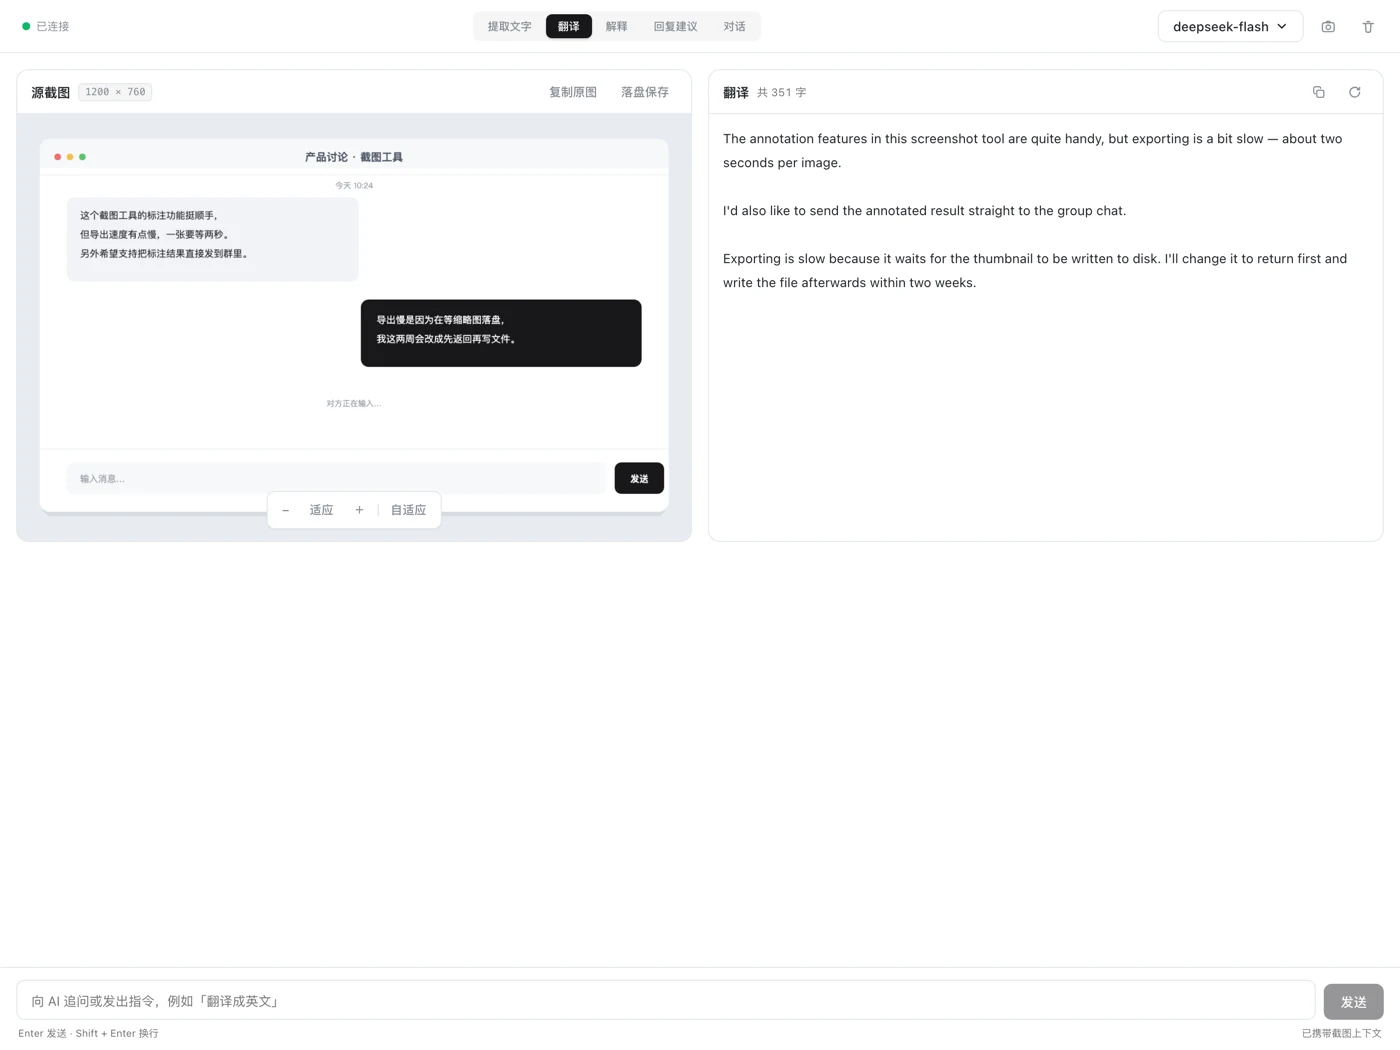
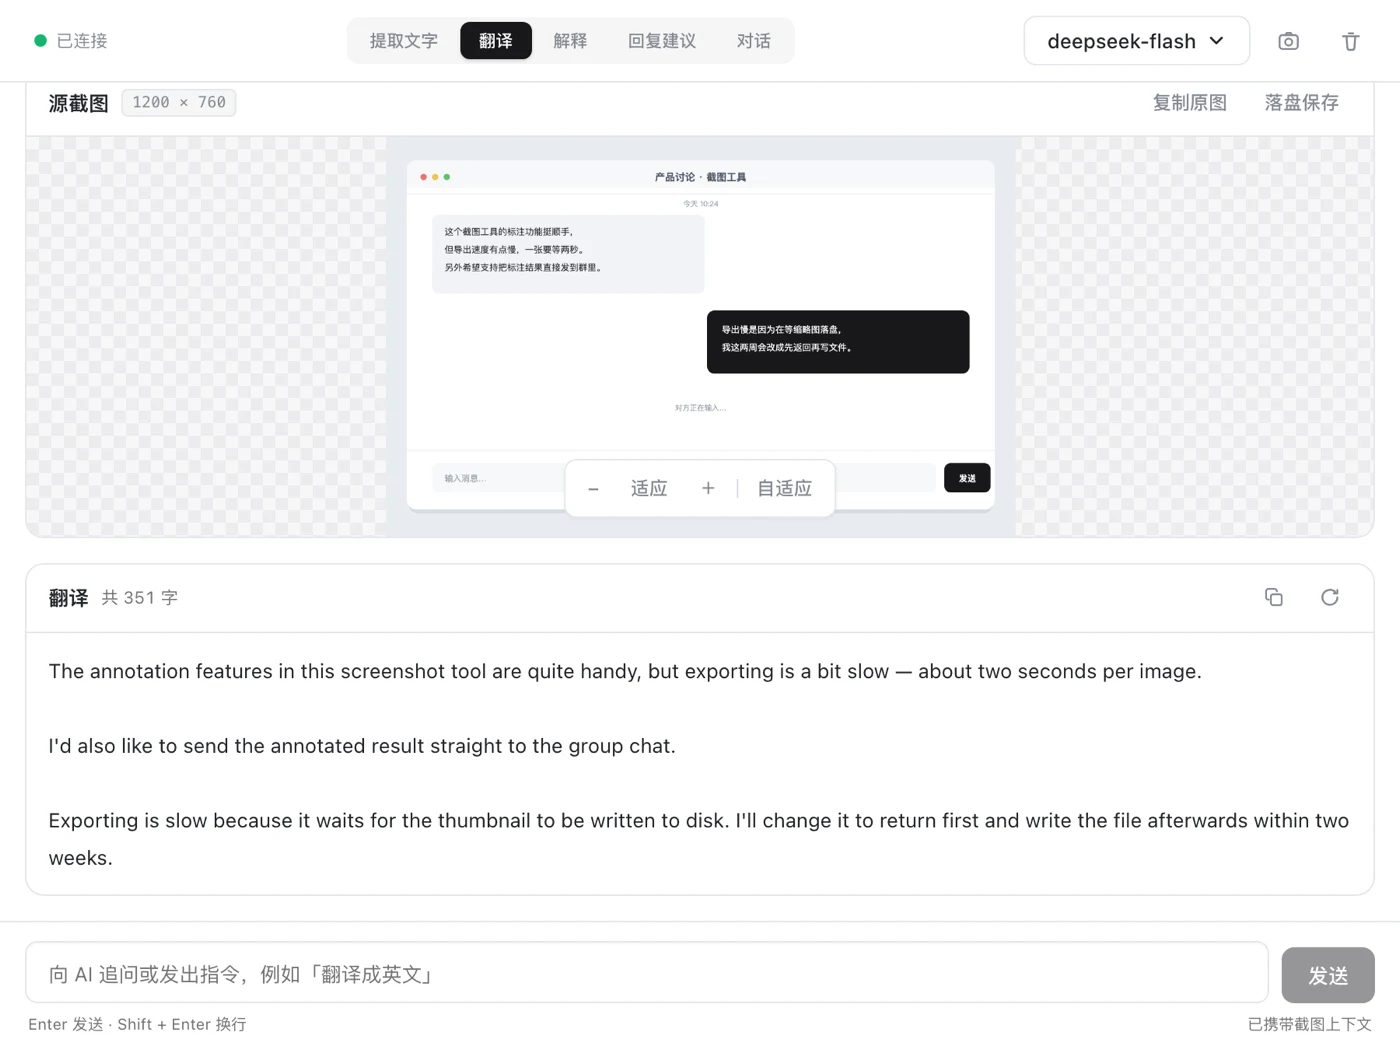
chore(website): 同步上下布局截图与文案、版本兜底，忽略调试探针

diff --git a/website/index.html b/website/index.html
@@ -365,7 +365,7 @@
 
 <header class="hero" id="top">
   <div class="wrap">
-    <div class="hero-badge"><b class="js-version">v0.7.2</b> · 开源免费 · macOS / Windows / Linux</div>
+    <div class="hero-badge"><b class="js-version">v0.8.2</b> · 开源免费 · macOS / Windows / Linux</div>
     <h1>截图，<span class="grad">然后交给 AI</span></h1>
     <p class="hero-sub">
       Shutter 是住在菜单栏里的截图工具：框选即截、点击选中窗口、滚动长截图、贴图钉在桌面，
@@ -384,12 +384,10 @@
     <p class="hero-note">无需注册 · 无账号 · 安装即用</p>
 
     <div class="hero-shot">
-      <!-- 待补截图：assets/hero-ai.webp
-           尺寸 1760×1100（16:10，对应首屏 880px 逻辑宽的 2x）
-           内容：框选一张普通网页或文档后，AI 面板给出「提取文字」或「翻译」的正向结果
-           禁止：GitHub release notes 这类自指内容；不要露出「回复建议」那一格（会显示“无法代写回复”）
-           共同要求：同一机型、同一主题；不要 macOS 菜单栏残片、桌面阴影、滚动条残边；窗口宽度 1200–1400 -->
-      <img src="assets/hero-ai.webp" alt="Shutter 截取网页后由 AI 提取文字" loading="eager" fetchpriority="high" decoding="async" width="1760" height="1021"
+      <!-- 实拍：assets/hero-ai.webp（1760×1021）
+           内容：桌面壁纸上框选一大片区域，底部标注工具栏，中间取色放大镜显示 #E2E5F6
+           要求：同一机型、同一主题；不要 macOS 菜单栏残片、桌面阴影、滚动条残边 -->
+      <img src="assets/hero-ai.webp" alt="Shutter 框选桌面时显示标注工具栏与取色放大镜" loading="eager" fetchpriority="high" decoding="async" width="1760" height="1021"
            onerror="this.style.visibility='hidden'" />
     </div>
   </div>
@@ -440,8 +438,8 @@
     <div class="ai-grid">
       <div class="ai-shot">
         <!-- 截图：assets/ai-chat.webp（1400×1050 / 4:3）
-             内容：AI 助手双栏布局——左侧源截图预览，右侧「翻译」结果卡片，顶部标签页，底部提问输入框 -->
-        <img src="assets/ai-chat.webp" alt="Shutter AI 助手：截取聊天对话后翻译成英文" loading="lazy" decoding="async" width="1400" height="1050"
+             内容：AI 助手上下布局——上方源截图预览，下方「翻译」结果卡片，顶部标签页，底部提问输入框 -->
+        <img src="assets/ai-chat.webp" alt="Shutter AI 助手：上方源截图预览、下方翻译结果，截取聊天对话后直接翻译成英文" loading="lazy" decoding="async" width="1400" height="1050"
              onerror="this.style.visibility='hidden'" />
       </div>
       <div>
@@ -477,7 +475,7 @@
   <div class="wrap center">
     <div class="kicker">Download</div>
     <h2>下载 Shutter</h2>
-    <p class="section-sub">当前版本 <span class="js-version">v0.7.2</span> · 支持 macOS / Windows / Linux。<a href="https://github.com/oubuild/Shutter/releases" target="_blank" rel="noopener" style="color: var(--primary); font-size: 12.5px;">查看全部历史版本</a> 。</p>
+    <p class="section-sub">当前版本 <span class="js-version">v0.8.2</span> · 支持 macOS / Windows / Linux。<a href="https://github.com/oubuild/Shutter/releases" target="_blank" rel="noopener" style="color: var(--primary); font-size: 12.5px;">查看全部历史版本</a> 。</p>
 
     <div class="dl-source" id="dl-source" role="radiogroup" aria-label="选择下载源">
       <span class="dl-source-thumb" id="dl-source-thumb" aria-hidden="true"></span>
@@ -590,7 +588,7 @@
 <script>
   // 下载区：从 GitHub Releases 读最新版本号，为每个平台/格式的下载条目
   // 生成直链，并支持在 GitHub 与 CNB 镜像两个源之间切换。API 拉不到时
-  // （限流/离线）用 HTML 里的 v0.7.2 兜底，页面照常可用。
+  // （限流/离线）用 HTML 里的 v0.8.2 兜底，页面照常可用。
   //
   // 切换源只换域名：github.com/oubuild/Shutter ↔ cnb.cool/ryanuo/shutter，
   // 文件路径结构完全一致。
@@ -599,8 +597,8 @@
   const CNB_BASE = "https://cnb.cool/" + CNB_REPO + "/-/releases/download";
 
   // 版本号状态：默认 HTML 兜底值，API 拉到后覆盖。
-  let dlTag = "v0.7.2";    // 带 v 前缀
-  let dlVersion = "0.7.2"; // 无前缀，用于拼文件名
+  let dlTag = "v0.8.2";    // 带 v 前缀
+  let dlVersion = "0.8.2"; // 无前缀，用于拼文件名
 
   // 当前下载源：默认 GitHub，用户选择后写入 localStorage。
   let dlSource = "github";

diff --git a/src/lib/ipc-mock.ts b/src/lib/ipc-mock.ts
@@ -506,7 +506,7 @@ function installIpcMock() {
           case "plugin:app|version":
             // About page reads the bundle version; keep the mock in sync
             // with package.json (what bumpp bumps).
-            resolve("0.7.2");
+            resolve("0.8.2");
             break;
           case "plugin:event|listen": {
             const event = String(args.event ?? "");
